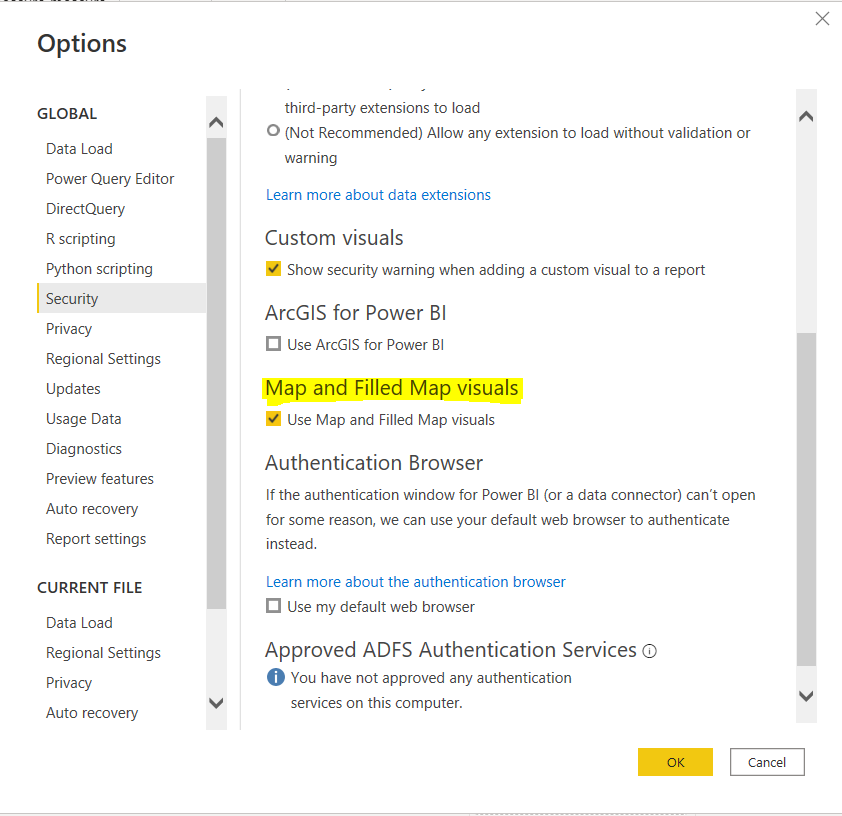
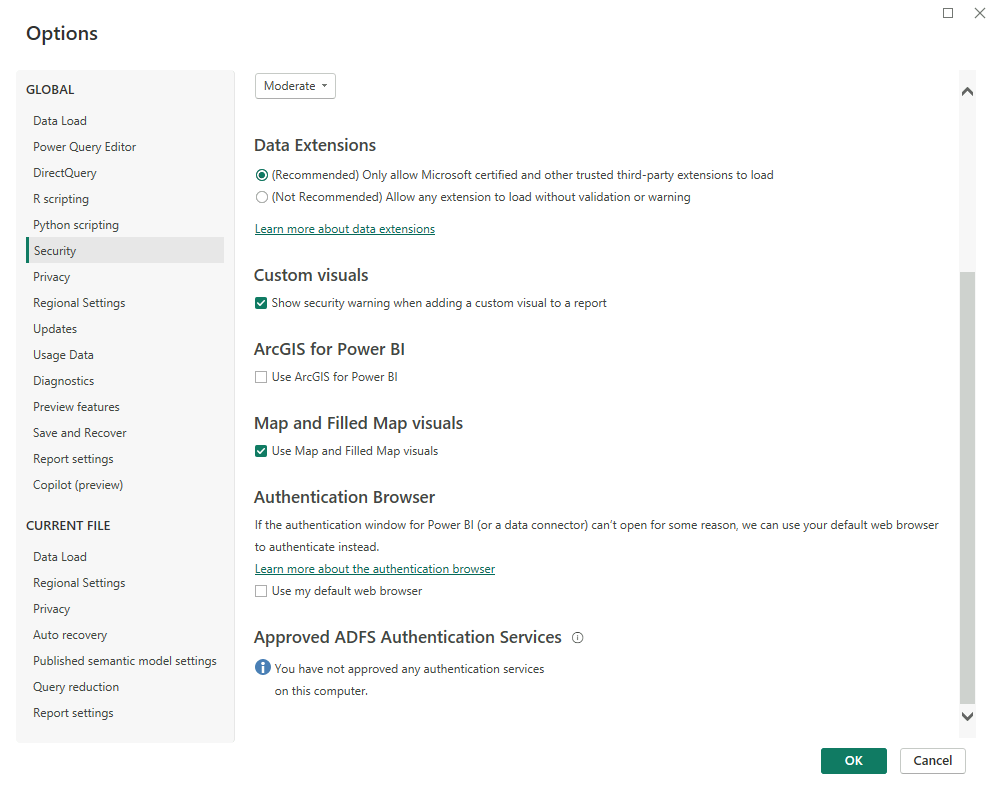
updated lab guides - latest powerbi version

diff --git a/Labguides/Instructions/LAB_02.md b/Labguides/Instructions/LAB_02.md
@@ -95,17 +95,17 @@ Lab environment is already setup.
 
 ![](./images/s22.png)
 
-2. In the **Data** pane, under **Sales** **vSalesPerson**, drag the **FirstName** field to the **Axis** box in the **VISUALIZATIONS** pane.
+2. In the **Data** pane, under **Sales** **vSalesPerson**, drag the **FirstName** field to the **X-axis** box in the **VISUALIZATIONS** pane.
 
-3. Drag the **SalesYTD** field to the **Value** box. The chart will populate with the data.
+3. Drag the **SalesYTD** field to the **Y-axis** box. The chart will populate with the data.
 
 4. On the chart in the report, click and drag the sizer on the right-hand side of the chart to widen the chart and display all the salespeople.
 
 5. Ensure the chart has focus, and then in the **VISUALIZATIONS** pane, click **Format**.
 
-6. Expand **Colors**, then toggle **Show all** to **On**.
+6. Expand **Columns** > **Colors**.
 
-7. Change the color for **Linda**, **Jae**, and **Michael** to red.
+7. Change the color to **Purple**:
 
 ![](./images/s23.png)
 
@@ -119,9 +119,9 @@ Lab environment is already setup.
 
 11. Click the report canvas, then in the **VISUALIZATIONS** pane, click **Stacked column chart** to add it to the report. The chart should be located under the previous charts.
 
-12. In the **Data** pane, expand **Top 10 Selling Products**, drag the **Product** field to the **Axis** box in the **VISUALIZATIONS** pane.
+12. In the **Data** pane, expand **Top 10 Selling Products**, drag the **Product** field to the **X-axis** box in the **VISUALIZATIONS** pane.
 
-13. Drag the **LineTotal** field to the **Value** box. The chart will populate with the data.
+13. Drag the **LineTotal** field to the **Y-axis** box. The chart will populate with the data.
 
 14. Click the **Top 10 Selling Products** chart to give it focus, then in the **VISUALIZATIONS** pane, click **Donut chart**. Note how easy it is to switch to a different chart type.
 

diff --git a/Labguides/Instructions/LAB_01.md b/Labguides/Instructions/LAB_01.md
@@ -70,7 +70,7 @@ Lab environment is already setup.
 
 ![](./images/s9.png)
 
-2. Expand **DimDate**, and drag the **EnglishDayNameOfWeek** field to the **Axis** property.
+2. Expand **DimDate**, and drag the **EnglishDayNameOfWeek** field to the **X-axis** property.
 
 ![](./images/s10.png)
 
@@ -90,7 +90,7 @@ Lab environment is already setup.
 
 8. Under **DimDate**, drag the **CalendarQuarter** field onto the chart. Notice that there is only one column.
 
-9. In the **VISUALIZATIONS** pane, click **Data**. Drag the **CalendarQuarter** field from **Value** to **Axis**.
+9. In the **VISUALIZATIONS** pane, click **Data**. Drag the **CalendarQuarter** field from **Y-axis** to **X-axis**.
 
 10. Click **Format**, and expand **Title**.
 
@@ -98,15 +98,11 @@ Lab environment is already setup.
 
 12. Next to **Alignment**, click the **Center** icon.
 
-13. Search **Show all** as shown below and set to **On**:
+![](./images/salign.png)
 
-![](./images/s11.png)
+13. Move the chart to the right of the **Sales by Day of Week** chart.
 
-After that change colors, for **1**, select **red**, for **2**, select **blue**, and for **3**, select **yellow**.
-
-![](./images/s12.png)
-
-14. Move the chart to the right of the **Sales by Day of Week** chart, and expand it so both charts are the same height.
+14. Expand the chart as well so both charts are the same height.
 
 15. In the **Data** pane, expand **DimSalesTerritory**, and drag the **SalesTerritoryCountry** column onto the report canvas under the **Sales by Day of Week** chart.
 

diff --git a/Labguides/Instructions/MOD01_DEMO.md b/Labguides/Instructions/MOD01_DEMO.md
@@ -124,7 +124,7 @@
 
 13. In the **VISUALIZATIONS** pane, click **Data**.
 
-14. In the **Data** pane, expand **DimDate**, and drag the **EnglishMonthName** to the **Axis** property.
+14. In the **Data** pane, expand **DimDate**, and drag the **EnglishMonthName** to the **X-axis** property.
 
 15. Grab the resizer on the column chart to widen the chart so that the month names display clearly.
 
